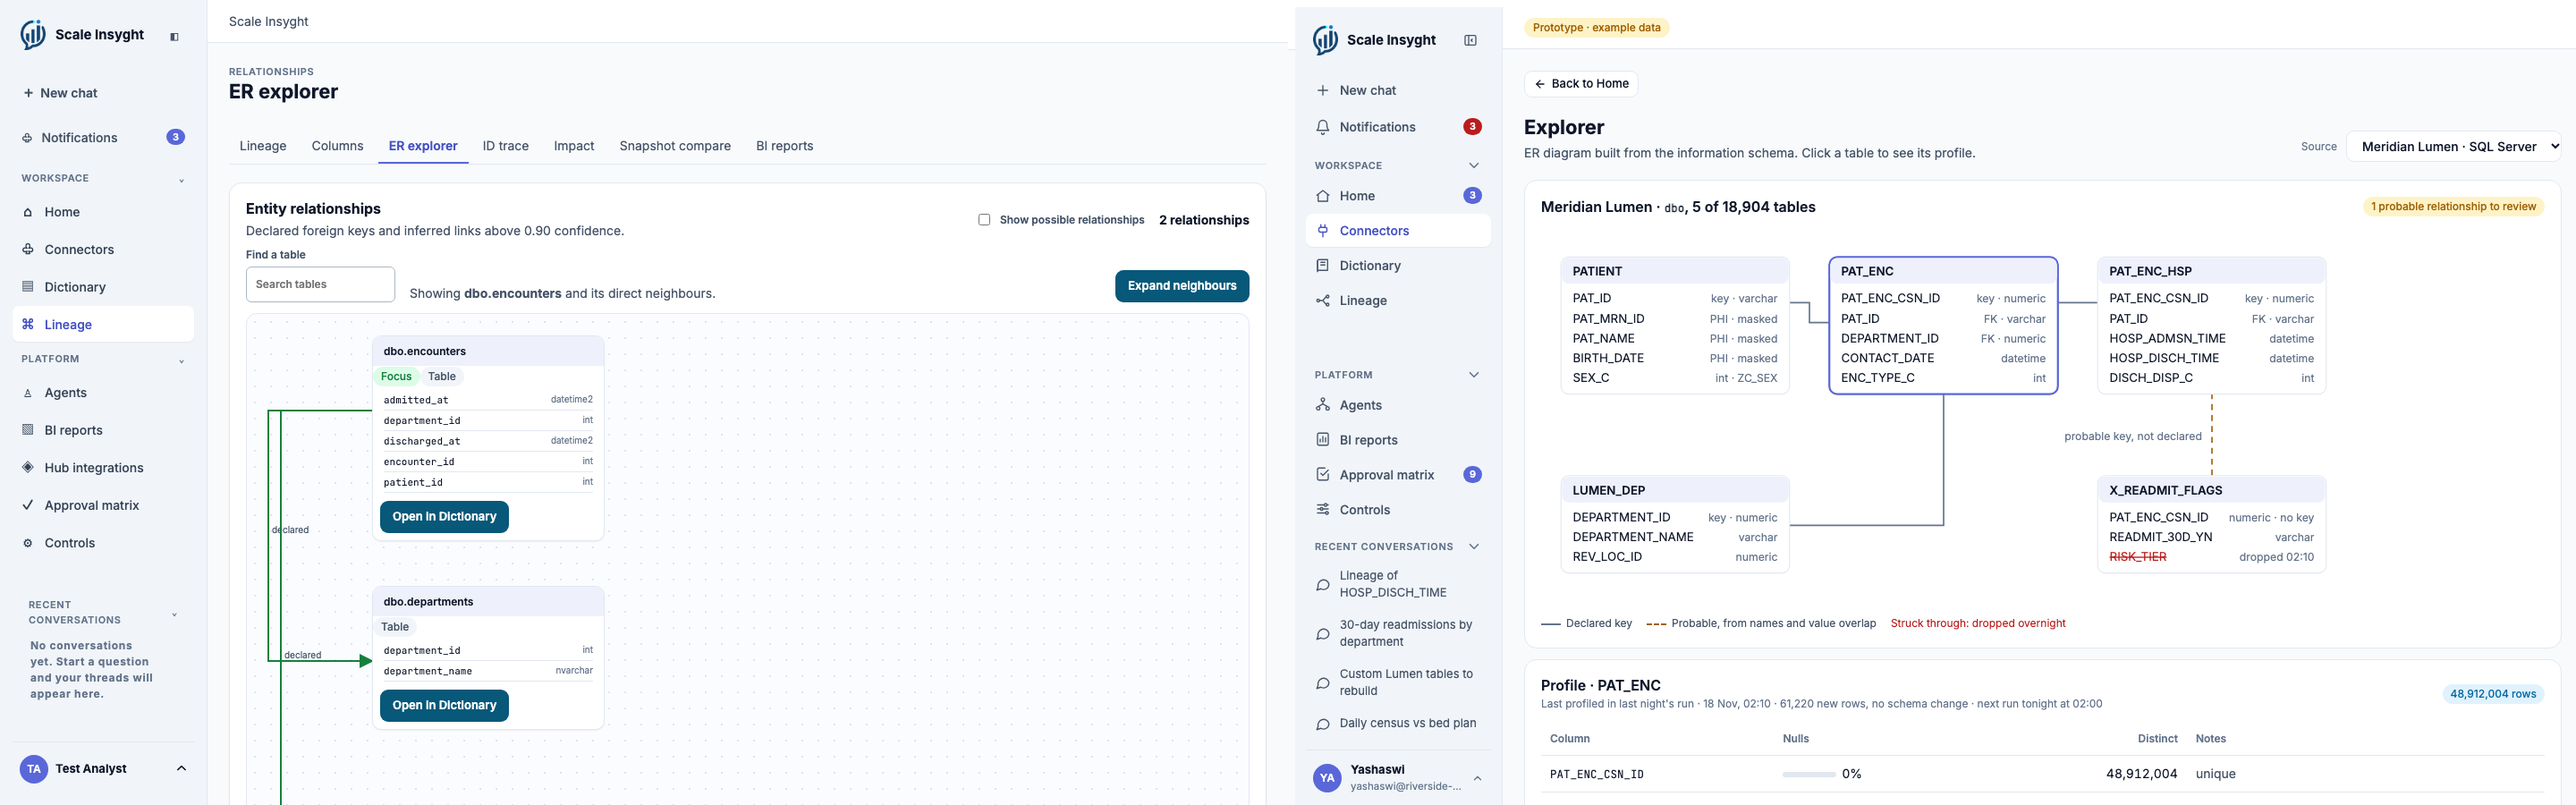
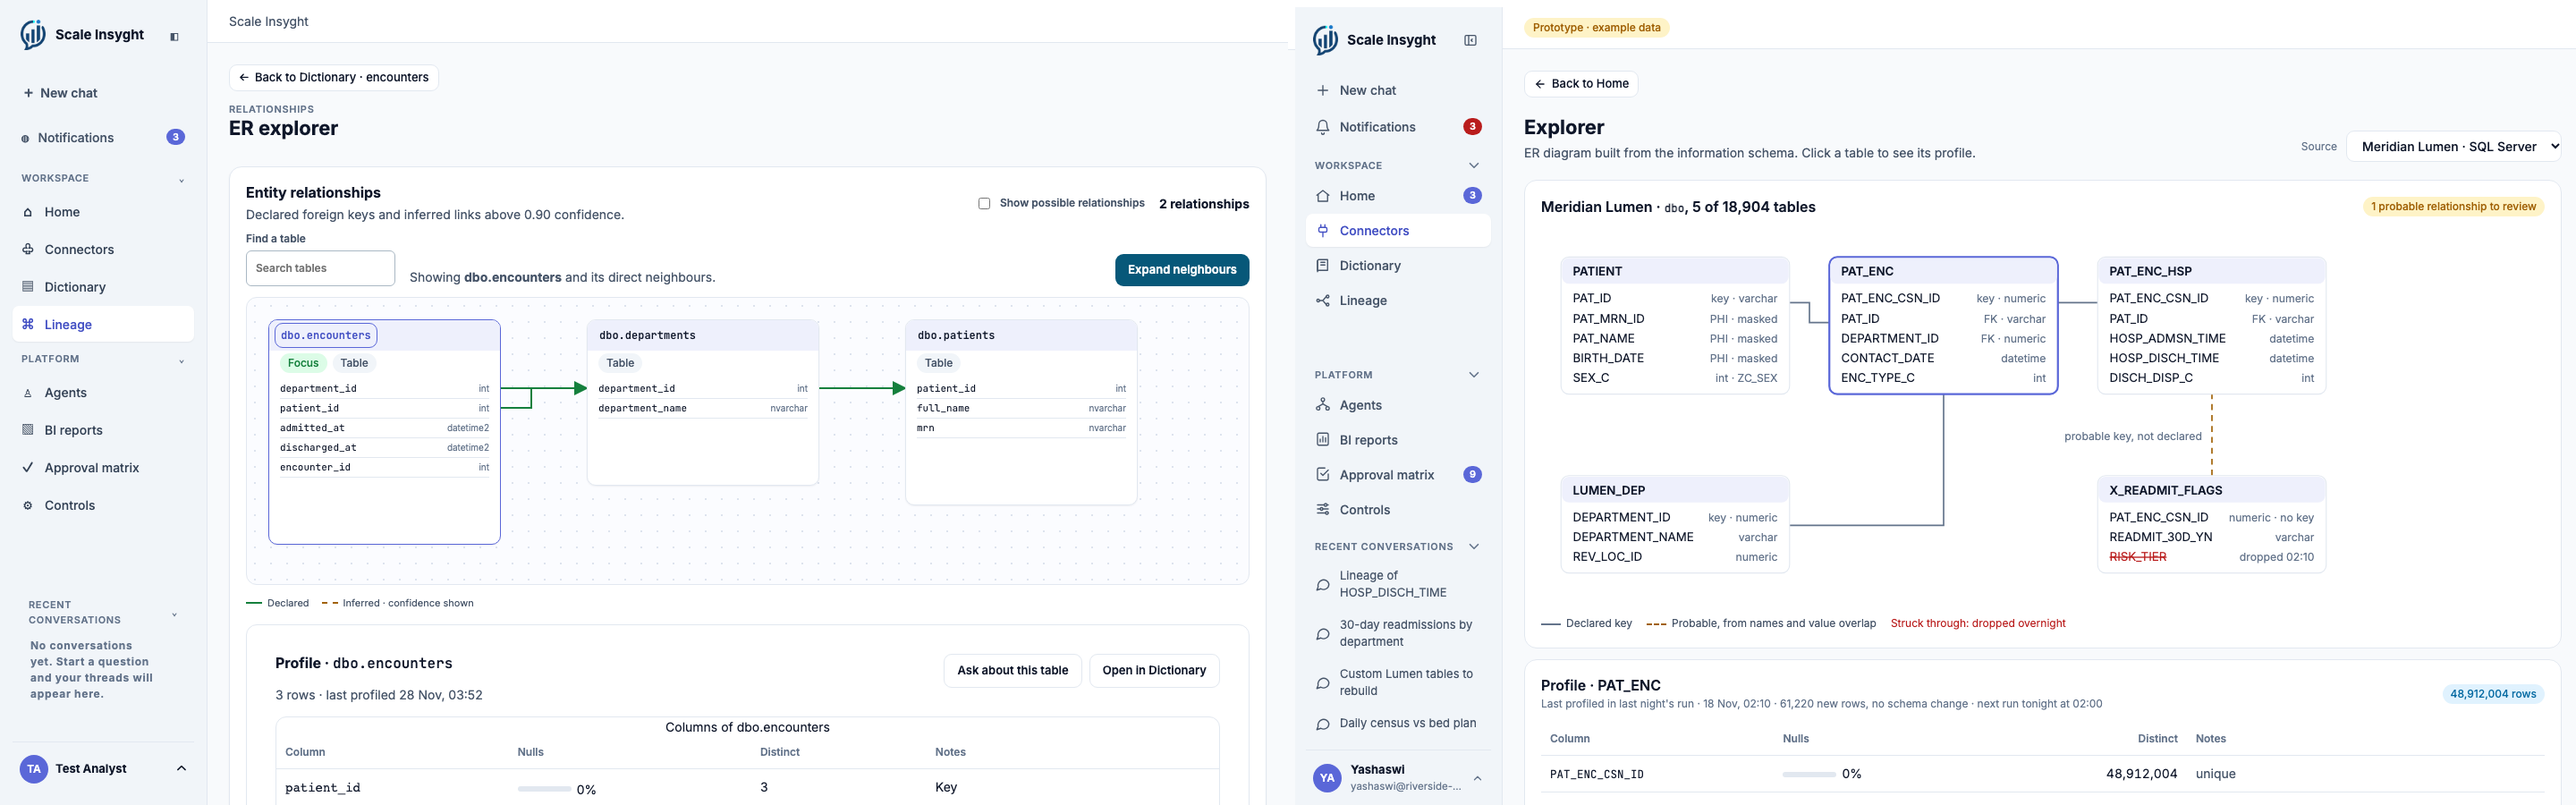
UI report: ER grid and profile panel beside the prototype

diff --git a/docs/ui/ui-report.md b/docs/ui/ui-report.md
@@ -31,7 +31,7 @@ The application renders live seeded API data and real interactions; the prototyp
 | [Dictionary search](screens/dictionary-search.png) | Same single search over names, columns ("N col") and an "In SQL code" group with match counts and a line snippet. The coverage line reads "SQL captured for 6 of 7 procedures and functions · 1 encrypted". |
 | [Dictionary export notice](screens/dictionary-export-notice.png) | App only: the notice before "Export as interactive HTML" (what is and isn't included, that the file leaves the product, that the export is audited). The prototype has no HTML export, so it is paired with the prototype landing. |
 | [Dictionary Excel](screens/dictionary-excel.png), [dbt](screens/dictionary-dbt.png), [Tableau](screens/dictionary-tableau.png) | The prototype's Dictionary covers databases only; these app sources follow the same table layout. Excel shows each sheet's original headers; dbt shows project descriptions ("From the dbt project") and tests; dbt column types show "—" because catalog types are not kept per column. Tableau lists data sources, worksheets and calculated fields with scrubbed formulas; the original formula is not available because uploaded workbooks are not kept. |
-| [ER explorer neighbourhood](screens/dictionary-er-neighbourhood.png) | Opened from "Show in ER diagram". The app now opens on one table and its neighbours with "Find a table" and "Expand neighbours" (spec 2.8). Known difference, not fixed here: the app still draws tables in one column with link lanes; the prototype lays tables out in a grid with a profile panel below. |
+| [ER explorer neighbourhood](screens/dictionary-er-neighbourhood.png) | Opened from "Show in ER diagram". The app now opens on one table and its neighbours with "Find a table" and "Expand neighbours" (spec 2.8). Tables are laid out in a grid with links between column rows, and a profile panel below follows the selected table (outlined): columns, a nulls bar, distinct counts and notes, with Ask about this table and Open in Dictionary, both carrying a Back button. Known differences, kept: nodes have a fixed height so links meet column rows, leaving space under short tables; columns show data types where the prototype shows key, FK and PHI notes; the testbed neighbourhood is three tables in one row. The legacy `.phase3-workspace button` rule still paints other buttons on the page teal (Expand neighbours). |
 | All pairs | No "Back to …" button yet when jumping between pages (CLAUDE.md 10.2); the prototype shows one. |
 | [Table lineage](screens/lineage-table.png) | Same selector, coverage summary, graph/evidence cards, and flow canvas. The app traces the seeded customer model and its two available hops; the prototype illustrates a multi-system sample graph. |
 | [Column lineage](screens/lineage-column.png) | Same column-flow table and missing-hop treatment. App rows are the actual seeded column-level metadata; prototype depicts the broader static graph. |
